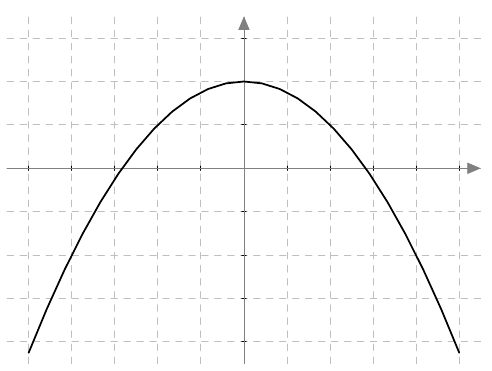
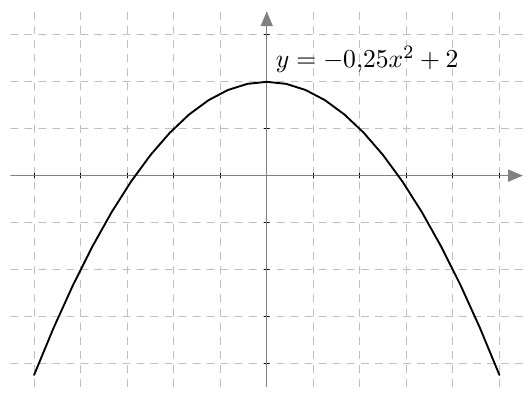
Muoks

diff --git a/kurssit/maa5/luku3/index.html b/kurssit/maa5/luku3/index.html
@@ -57,11 +57,9 @@ topnav: maa5
         <div id="paraabeli1" class="collapse">
 
             <p>
-                Paraabeleita tutkittiin jo kurssissa <a href="http://kisallioppiminen.fi/kurssit/maa2/luku3/">MAA2</a>, jossa opiskeltiin toisen asteen polynomifunktioihin liittyviä asioita. Toisen asteen polynomifunktion kuvaaja on aina ylöspäin tai alaspäin aukeava paraabeli. Esimerkiksi funktion $f(x) = x^2 - 2x - 3$ kuvaaja on 
+                Kurssissa <a href="http://kisallioppiminen.fi/kurssit/maa2/luku3/">MAA2</a> tutustuttiin toisen asteen polynomifunktioihin. Näiden kuvaajat ovat aina ylöspäin tai alaspäin aukeavia paraabeleja. Esimerkiksi alla on näkyvissä funktioiden $f(x) = x^2 - 2x - 3$ ja $g(x) = -0{,}25x^2 + 2$ kuvaajat.
                 <br>
                 <img src="/kurssit/maa5/kuvat/k038.png" max-width: 100%; width: auto; height: auto;/>
-                <br>
-                ja funktion $g(x) = -0{,}25x^2 + 2$ kuvaaja on 
                 <br>
                 <img src="/kurssit/maa5/kuvat/k039.png" max-width: 100%; width: auto; height: auto;/>
                 <br>
